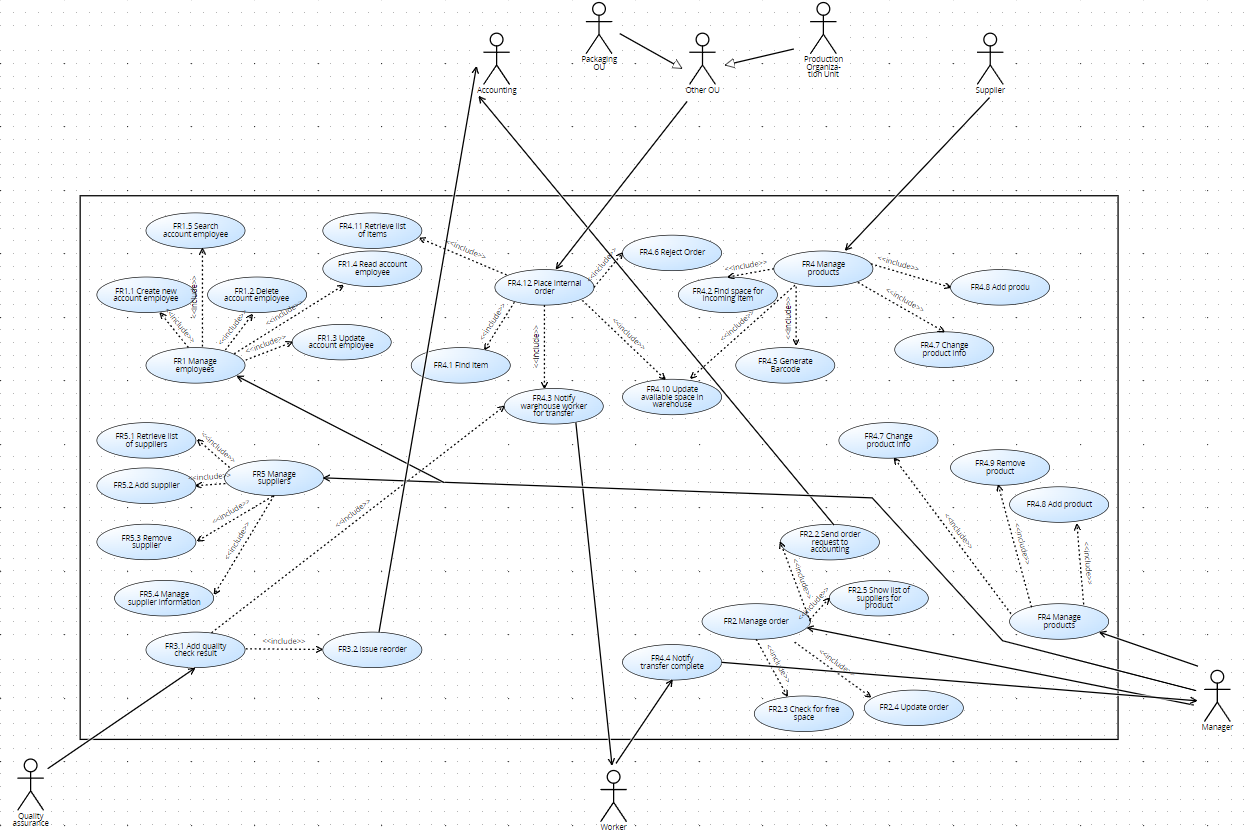
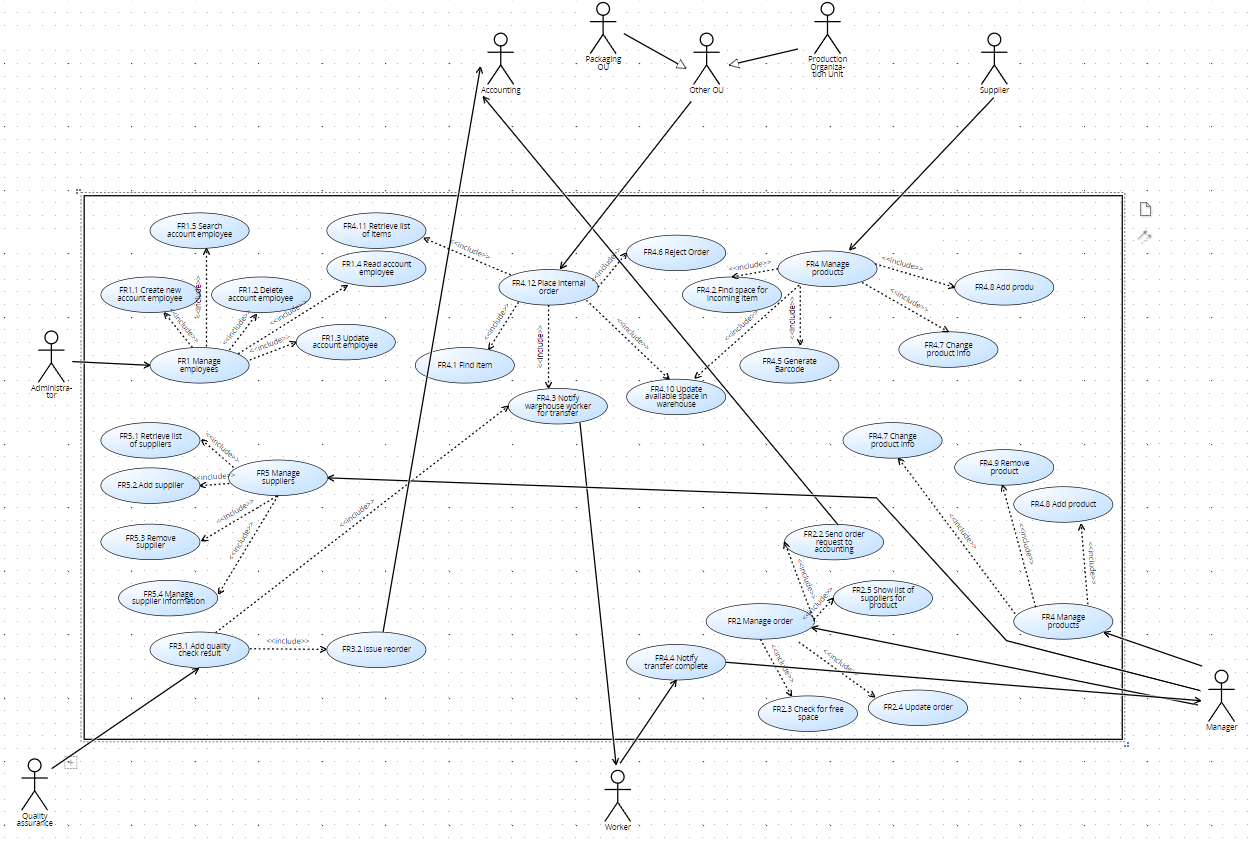
updated context, uc,interfaces with administrator

diff --git a/RequirementsDocument.md b/RequirementsDocument.md
@@ -31,12 +31,42 @@ Version: 0.0
 	- [Non Functional Requirements](#non-functional-requirements)
 - [Use case diagram and use cases](#use-case-diagram-and-use-cases)
 	- [Use case diagram](#use-case-diagram)
-		- [Use case 1, UC1](#use-case-1-uc1)
+		- [Use case 1, Manage Employees](#use-case-1-manage-employees)
 				- [Scenario 1.1](#scenario-11)
 				- [Scenario 1.2](#scenario-12)
-				- [Scenario 1.x](#scenario-1x)
-		- [Use case 2, UC2](#use-case-2-uc2)
-		- [Use case x, UCx](#use-case-x-ucx)
+				- [Scenario 1.3](#scenario-13)
+				- [Scenario 1.4](#scenario-14)
+				- [Scenario 1.5](#scenario-15)
+		- [Use case 2, Manage Order](#use-case-2-manage-order)
+				- [Scenario 2.1](#scenario-21)
+				- [Scenario 2.2](#scenario-22)
+				- [Scenario 2.3](#scenario-23)
+				- [Scenario 2.4](#scenario-24)
+				- [Scenario 2.5](#scenario-25)
+		- [Use case 3, Manage Quality Check Information](#use-case-3-manage-quality-check-information)
+				- [Scenario 3.1](#scenario-31)
+				- [Scenario 3.2](#scenario-32)
+		- [Use case 4, Manage Products](#use-case-4-manage-products)
+				- [Scenario 4.1](#scenario-41)
+				- [Scenario 4.2](#scenario-42)
+				- [Scenario 4.3](#scenario-43)
+				- [Scenario 4.4](#scenario-44)
+				- [Scenario 4.5](#scenario-45)
+				- [Scenario 4.6](#scenario-46)
+				- [Scenario 4.7](#scenario-47)
+				- [Scenario 4.8](#scenario-48)
+				- [Scenario 4.9](#scenario-49)
+				- [Scenario 4.10](#scenario-410)
+				- [Scenario 4.11](#scenario-411)
+				- [Scenario 4.12](#scenario-412)
+		- [Use case 5, Manage Suppliers](#use-case-5-manage-suppliers)
+				- [Scenario 5.1](#scenario-51)
+				- [Scenario 5.2](#scenario-52)
+				- [Scenario 5.3](#scenario-53)
+				- [Scenario 5.4](#scenario-54)
+		- [Use case 6, Authenticate and Authorize](#use-case-6-authenticate-and-authorize)
+				- [Scenario 6.1](#scenario-61)
+				- [Scenario 6.2](#scenario-62)
 - [Glossary](#glossary)
 - [System Design](#system-design)
 - [Deployment Diagram](#deployment-diagram)
@@ -60,7 +90,7 @@ EZWH (EaSy WareHouse) is a software application to support the management of a w
 
 | Stakeholder name  | Description | 
 | ----------------- |:-----------:|
-|   Administrator     | Handles economic resources for the company mantains relationship with suppliers| 
+|   Administrator     | Handles economic resources for the company mantains relationship with suppliers, manages employees | 
 |   Quality Office     |Offices that perform quality check on new items             | 
 |   Production Organization Unit     |Area that requests product to warehouse to build something             | 
 |   Packaging OU    |Area that packages items for shipping              | 
@@ -88,6 +118,7 @@ EZWH (EaSy WareHouse) is a software application to support the management of a w
 | Warehouse Worker | GUI | Touchscreen/Barcode scanner |
 | Quality Assurance | GUI | Keyboard+Mouse/Touchscreen |
 | Accounting | E-mail | Keyboard+Mouse |
+| Administrator | GUI | Keyboard+Mouse |
 
 # Stories and personas
 
